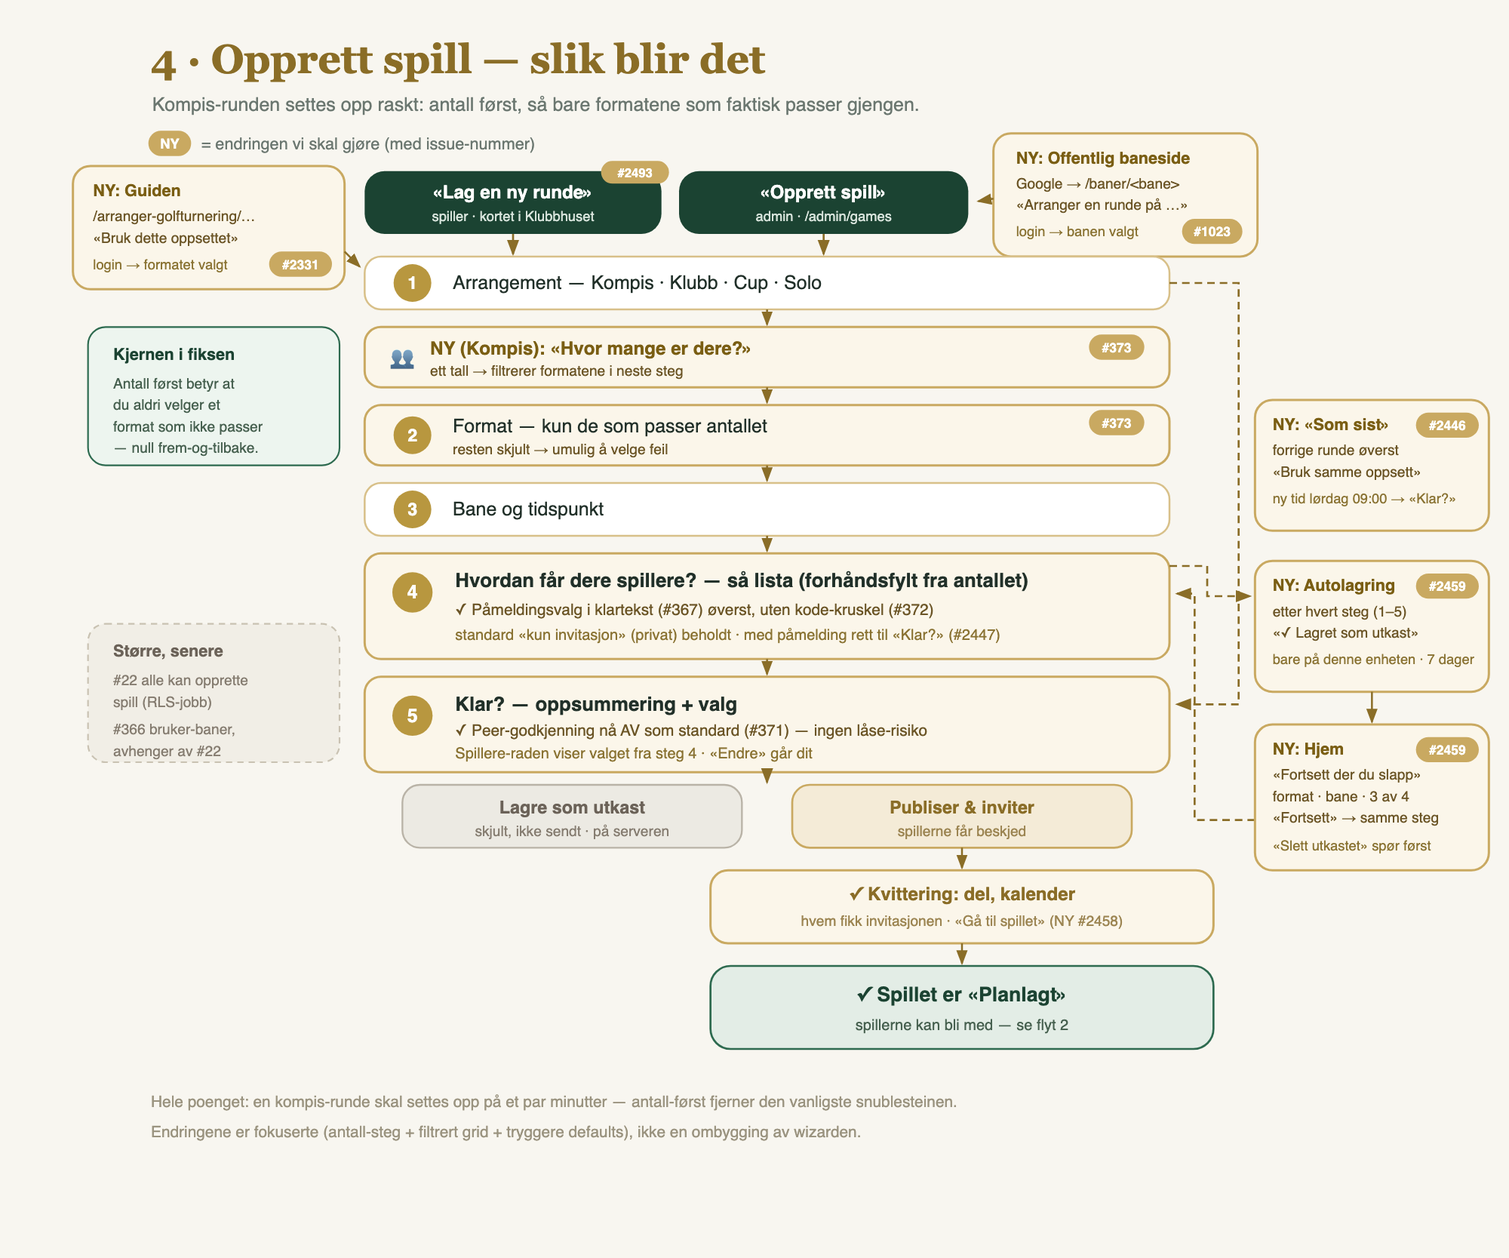
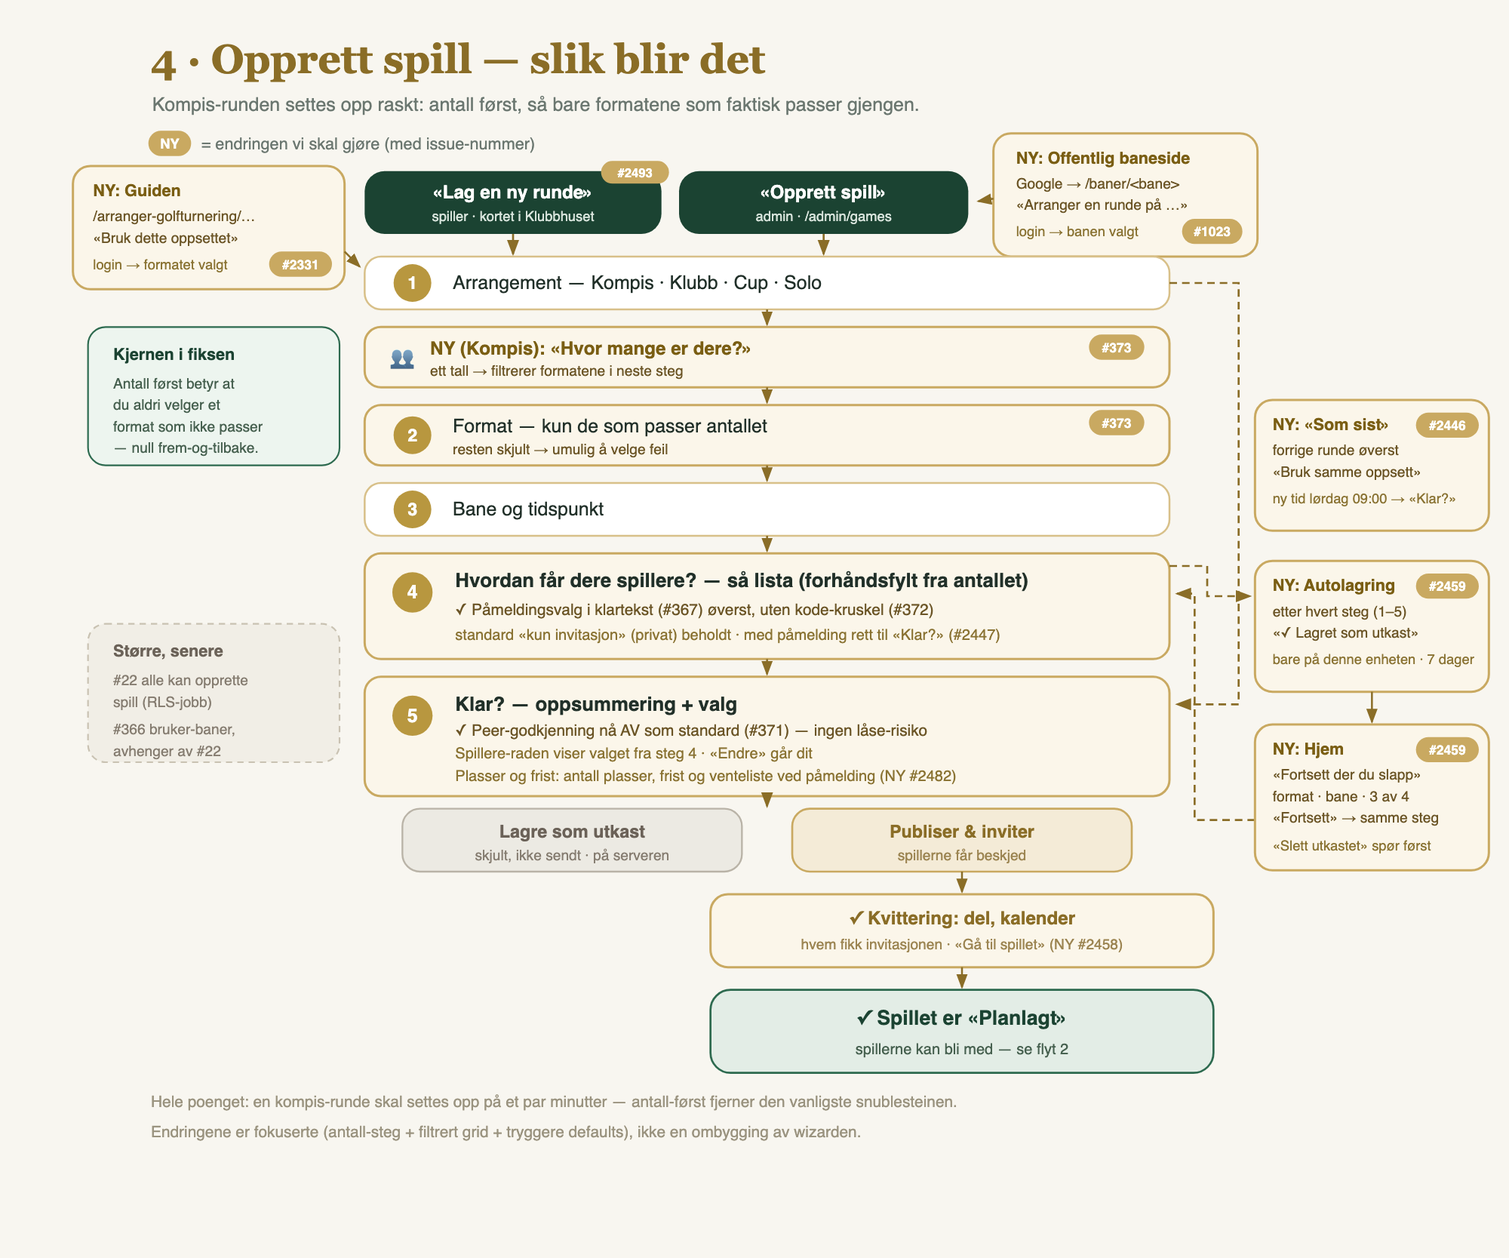
docs(flows): cap, deadline and waiting list in flows 2 and 4
Flow 4 step 5 «Klar?» gets «Plasser og frist» (NY #2482); flow 2's full-round
box gets the waiting list and the deadline; the PNGs are regenerated.
user-flows.md P2 describes the cap, the deadline and the list from the
player's side, step 5 names the card, and the organiser's «Påmeldinger»
names the waiting-list row.

Refs #2482

Changed region(s): [[0.248, 0.5927, 0.806, 0.8422], [0.775, 0.811, 0.806, 0.8422]]

diff --git a/docs/user-flows.md b/docs/user-flows.md
@@ -234,6 +234,8 @@ flowchart TD
 
 **Full runde (#2837):** har formatet et tak (fast antall spillere, eller lagformatets rutenett) og alle plassene er tatt, viser en åpen runde forespørselsskjemaet med banneret «Runden er full» i stedet for «Meld meg på». Tellingen er den samme som plassen tas med (`getRegistrationSeats`, terminlistas «Fullt»), og regelen står i `signupOffer` (`solo_open_full`), så nettsiden og appen sier det samme. Matchplay har fortsatt sidevelgeren. Forespørselen går til arrangøren som en vanlig forespørsel. Stengt påmelding slår full runde: da sendes ingen ny forespørsel, men de som alt står, kan godkjennes. En forespørsel som er trukket, kan sendes på nytt og havner da bakerst i køen.
 
+**Plasser, frist og venteliste (#2482):** taket du møter, er det laveste av formatets tak og arrangørens «Antall plasser». Matchplay fylles per side og har ikke arrangørens tak; der gjelder bare fristen. Har arrangøren satt en påmeldingsfrist, stenger påmeldingen når den går ut, og siden sier når: «Påmeldingen stengte fredag 2. okt kl. 18:00.» Fristen sjekkes når noen prøver å melde seg på, det går ingen planlagt jobb. Er en åpen runde full og arrangøren har ventelista på, står «16 av 16 plasser» og «Fullt · 2 på venteliste» på siden, og knappen heter «Sett meg på ventelista». Trekker noen seg før start, fjerner arrangøren en spiller, hever taket eller slår på lista, får den første på lista plassen av seg selv og varselet «Du fikk plass fra ventelista». Etter fristen rykker lista fortsatt opp fram til start. Etter «Steng påmeldingen» gjør den ikke det. Appen får tallene (`seats.waitlist` og `closure`), men tekstene kommer i neste appbygg.
+
 **Lagskjemaet på nettet (#2840 del 5, tegningen v3.1):** på `/signup/[shortId]` er lagnavnet overskriften, med et forslag fra fornavnet ditt («Martins lag», `suggestTeamName`). Et klikk gjør det til et felt med teller («2/40») og feilen under. Under står rundens tid, bane og plasser, så oppstillingen: du med «K» og en stiplet skive per ledig plass. Søket har «Legg til venn» ved siden av seg hele tiden, også når laget er fullt og når søket ikke treffer. Arket har «Kopier lenken din» (venne-lenka di) og «Gå til Venner», ingen QR-kode. Lista er bare vennene dine (`loadTeamFriendPicker`): skive, navn og «HCP x,x · n runder sammen». En venn som alt er i runden, står grå med «Alt påmeldt i runden» (`readUnavailableFriendIds`), og når laget er fullt, blir resten grå. Et klikk i lista eller på skiva i oppstillingen tar vennen inn eller ut. Knappen nederst teller ned («Velg 2 til») og blir «Meld på <lagnavn>». Uten venner står beskjeden og en hel «+ Legg til en venn». Serveren sjekker vennskapet på nytt (`teammate_not_friend`). Vennene får varsel i appen, og kvitteringen viser hvem som kom med.
 
 **Lagsiden på nettet (`/signup/[shortId]/team`):** «Lag · <runde>» over lagnavnet, en linje med «Påmeldt · 2 av 3 har svart ja» (eller ledige plasser), oppstillingen med kapteinens «K», og én rad per medspiller med skive, navn og status. Kapteinens «•••» åpner en liten meny ved raden: «Send på nytt» og «Fjern fra laget» før svar, «Gi kapteinsrollen» og «Fjern fra laget» etter ja (ikke for en gjest). «Fjern fra laget» og «Gi kapteinsrollen» går via en bekreftelse. En som takket nei, har «Bytt med en venn», og en ledig plass har «Velg en venn». Begge åpner samme venneliste som skjemaet, for én plass (`addTeamMember`, med `replaceRequestId` ved bytte). Medspillerne ser laget uten «•••», og den som ikke har svart, får «Bli med på laget» og «Nei takk». Ingen kan invitere på e-post lenger, men en invitasjon som alt er sendt, virker: den som logger inn med adressen, får «Bli med på lag» her.
@@ -348,7 +350,7 @@ flowchart LR
 | 2 Format | `FormatGrid` (eller `CupSetup`) | **DB-drevet** fra `formats` + `format_intent_mapping`, anbefalt format først: med antall (Kompis) er det første formatet som passer, et stort kort, og tre til står under (#2260). Under lista følger «Velg lagstørrelse» antallet: størrelser som ikke går opp, står grå og sier hvorfor, og et format med én lagstørrelse viser den som en linje (#2453). Når et format er valgt, krymper lista til én linje med «Bytt», og oppsettet står rett under (#2454). Cup → `createTournamentDraft` → `tournaments`-rad → `/admin/cup/[id]`. Ved «Klubb-turnering» velges klubben (`ClubPicker`) over formatlista, og «Neste» krever en gyldig klubb (#2439). Shamble og champagne scramble har handicap-andelen (%) rett under «Tellemåte», bare med Netto, og får ikke det generelle andelsfeltet på steg 5 (#2570). Dyplenka `?format=` fra formatvelgeren på `/spillformater` åpner Kompis på dette steget med formatet valgt og arrangøren som spiller (#2328). Dyplenka `?oppsett=<målgruppe>` fra guidene gjør det samme med guidens oppsett (format og lagstørrelse, uten antall) og vinner over `?format=`; `?fra=`, `?klubb=` og `?intent=` slår den av (`resolveWizardDeepLink`, #2331). `?bane=` gjør det ikke, for den kommer tilbake sammen med forslags-lenka fra «Opprett ny bane» (#2485). |
 | 3 Bane og tidspunkt | `BasicsSection` | «Hvor og når?» (#2448). **Sist brukt:** de to banene du brukte sist, som kort (per bruker, spill du har spilt eller arrangert; ikke utkast, trukne eller avledede spill, `getCourseAndTimeData`). Under navnet står «N runder i høst» (årstiden etter Oslo-kalenderen: vår mar–mai, sommer jun–aug, høst sep–nov, vinter des–feb), eller «Sist 12. aug» når banen ikke er spilt i årstiden. En bane valgt på annen måte står først som «Valgt». Uten historikk heter kickeren «Bane». **Søket** finner alle baner (fra `getNewGameFormData`). **Tee** er knapper med fargeprikk (`tee_boxes.color`, ellers navnet, ellers nøytral) og hvem teen er vurdert for; én tee er valgt fra start. **Tee-off** har hurtigvalg: «Nå» (bare Kompis og Solo, #2463), «I dag», «I morgen» og «Annen dag», så 08:00, 09:00, 10:00 og «Annen tid» (Oslo-tz, «nå» regnet på serveren). Standarden lørdag kl. 09:00 står under «Annen dag» med datoen, med mindre lørdag er i dag eller i morgen. Tider som har passert i dag kan ikke velges. «Nå» skjuler klokkeslettene: tiden settes når du publiserer (`resolveTeeOffForSave`), så femminuttersgrensen gjelder ikke, og runden starter med en gang. Et utkast med «Nå» lagres uten tidspunkt og åpnes med «Nå» valgt. Auto-navn. «Opprett ny bane» går til `/opprett-bane?next=…` med veien tilbake til steg 3. Der viser «Finnes banen alt?» opptil fem baner som ligner navnet du skriver (`similar_courses`, #2485). «Bruk denne», eller en bane du lagrer der, kommer tilbake valgt: når utkastet er hentet, velger veiviseren banen fra `?bane=` over utkastets og fjerner parameteren fra adressen (`useCourseFromUrl`). `banevalg=1` står igjen, så «Som sist» holder seg borte fra steg 1 også etter en reload (#2446). Format og spillere står. I appen heter døra «Finner du ikke banen? Legg den inn», og den åpner samme skjema med samme regler som nettet; en lagret bane, eller «Bruk denne», kommer tilbake valgt på steg 3 (#2757). |
 | 4 Spillere | `PlayerSourceChoice` + `PlayerPickerGrid` + `PlayerTray`, så `TeamsAssignmentSection` | Øverst, under tittelen «Hvordan får dere spillere?», står påmeldingsvalget (#2447, #367): «Jeg velger dem nå» (standard, privat), «De ber om plass, jeg godkjenner» (med «Slipp venner direkte inn», #369) og «Åpen påmelding». Velges påmelding, er lista valgfri og «Neste: Klar?» går rett til steg 5, også i best ball med deg alene. Klubb-turneringen har ikke valget (medlemskap er invitasjonen, #643) og beholder tittelen «Hvem skal spille?». Det samme gjelder en runde med «Nå» på steg 3: den starter med en gang, så du velger spillerne selv (#2463). Under valget: vennene (eller klubbmedlemmene) som kort, du selv først og så sist spilt først (`orderPickerPlayers`, #2321). Brettet nederst teller mot målet («3 av 4 · én til»). Lagformater og singles matchplay fordeler lag, sider og flights på en egen skjerm («Neste: lagene»); solo-formatene har tee per spiller på velgeren. Under påmeldingsvalget står «Hva melder man på?» (individuelt eller lag), bare for lagformater (#2457). Gjest legges til fra «+ Gjest»; «✉ E-post» samler adresser som inviteres når spillet publiseres (`sendPublishInvites`). Steget kan stå tomt hvis påmelding er valgt øverst på steget, og i en klubb-turnering med individuell påmelding (#2433). I appen (#2840 del 4) har spillersteget i en kompisrunde det samme valget øverst, med de samme ordene (`RegistrationChoice`): de tre kortene, «Slipp venner direkte inn» inne i kortet for godkjenning, og «Hva melder man på?» for lagformatene. Velges påmelding, heter lista «Vil du legge inn noen nå? Lista kan stå tom.», og runden kan publiseres uten spillere. Med Lag og påmelding er det ingen liste, og ingen står på den fra start (`organiserStartsOnRoster`). Lagene melder seg på selv, og merknaden sier at du melder på laget ditt fra runden. En som sto på lista uten lag, ville ikke kunnet melde på eget lag. Går valget tilbake, er lista og du med igjen. Et format uten lag setter typen tilbake til Individuelt. Klubbturneringen i appen har ikke valget. |
-| 5 Klar? | `ReadyStep` | Et lite invitasjonskort med spillnavnet som felt midt i kortet, og en sjekkliste (Bane, Format, Tee-off, Spillere) med status og «Endre» som hopper til steget valget bor på (#2282). Spillere-raden sier hvordan spillerne kommer («Privat», «Du godkjenner påmeldinger», «Åpen påmelding»; ikke i en klubb-turnering), og «Endre» går til steg 4 der valget bor (#2447). Under sjekklista står INNSTILLINGER (#2457): Handicap (bare for formater med handicapfelt), Startkontingent, Under runden (synlighet og godkjenning fra flighten) og Sideturnering og premier, hver som en kort rad med verdien som er satt og «Endre». «Endre» åpner et bunn-ark (`BottomSheet`) med bare radens felt; ✕, bakgrunnen, Esc og «Ferdig» lukker det. Verdiene bæres av `FormDataInputs`, ikke av arkene, så de er med når arket er lukket. Premiebordet er en rad som åpner bordet, lukket som standard og åpent når spillet alt har premier. Prosenten står bare i Handicap-raden; Format-raden blir fortsatt rød når den er ugyldig, og «Endre» der åpner Handicap-arket med fokus i feltet. Brettet nederst: «Publiser og del invitasjonen» (`createAndPublishGame`, status `scheduled` + invitasjoner) eller «Lagre som utkast» (`createGameDraft`, status `draft`). Publisering varsler alle på lista én gang (`notifyRosterInvites`); en tom klubb-turnering varsler ingen. «Lagre som utkast» varsler ingen (#2445). En venn uten fullført profil stopper ikke publiseringen. Runden starter når profilen er på plass, og spillerraden på steg 5 sier «N venter på profil» (#2441). Er alle valgte spillere gjester, blir spillerraden rød og publiseringen stoppes alltid, uansett påmeldingsmåte; serveren avviser også (`guestOnlyRoster`, #2570). Redigering av en planlagt runde stoppes ikke. I appen står «Påmelding» over spillerne i oppsummeringen for en kompisrunde, med de samme ordene og « · lag» for lagpåmelding («Åpen påmelding · lag»). Uten spillere og med lagpåmelding står «Spillere (0)» og «Lagene melder seg på selv». Etter publiseringen får arrangøren som ikke står på lista, kortet «Meld på laget ditt» på runden (`OwnTeamCard`, #2840 del 4). Knappen åpner lagskjemaet på «Påmelding» med deg som kaptein. Når laget er sendt, står «Laget ditt» i stedet. |
+| 5 Klar? | `ReadyStep` | Et lite invitasjonskort med spillnavnet som felt midt i kortet, og en sjekkliste (Bane, Format, Tee-off, Spillere) med status og «Endre» som hopper til steget valget bor på (#2282). Spillere-raden sier hvordan spillerne kommer («Privat», «Du godkjenner påmeldinger», «Åpen påmelding»; ikke i en klubb-turnering), og «Endre» går til steg 4 der valget bor (#2447). Under sjekklista står INNSTILLINGER (#2457): Handicap (bare for formater med handicapfelt), Startkontingent, Under runden (synlighet og godkjenning fra flighten) og Sideturnering og premier, hver som en kort rad med verdien som er satt og «Endre». «Endre» åpner et bunn-ark (`BottomSheet`) med bare radens felt; ✕, bakgrunnen, Esc og «Ferdig» lukker det. Verdiene bæres av `FormDataInputs`, ikke av arkene, så de er med når arket er lukket. Premiebordet er en rad som åpner bordet, lukket som standard og åpent når spillet alt har premier. Prosenten står bare i Handicap-raden; Format-raden blir fortsatt rød når den er ugyldig, og «Endre» der åpner Handicap-arket med fokus i feltet. Brettet nederst: «Publiser og del invitasjonen» (`createAndPublishGame`, status `scheduled` + invitasjoner) eller «Lagre som utkast» (`createGameDraft`, status `draft`). Publisering varsler alle på lista én gang (`notifyRosterInvites`); en tom klubb-turnering varsler ingen. «Lagre som utkast» varsler ingen (#2445). En venn uten fullført profil stopper ikke publiseringen. Runden starter når profilen er på plass, og spillerraden på steg 5 sier «N venter på profil» (#2441). Er alle valgte spillere gjester, blir spillerraden rød og publiseringen stoppes alltid, uansett påmeldingsmåte; serveren avviser også (`guestOnlyRoster`, #2570). Redigering av en planlagt runde stoppes ikke. I appen står «Påmelding» over spillerne i oppsummeringen for en kompisrunde, med de samme ordene og « · lag» for lagpåmelding («Åpen påmelding · lag»). Uten spillere og med lagpåmelding står «Spillere (0)» og «Lagene melder seg på selv». Etter publiseringen får arrangøren som ikke står på lista, kortet «Meld på laget ditt» på runden (`OwnTeamCard`, #2840 del 4). Knappen åpner lagskjemaet på «Påmelding» med deg som kaptein. Når laget er sendt, står «Laget ditt» i stedet. Ved åpen påmelding og godkjenning står kortet «Plasser og frist» under sjekklista (#2482): antall plasser med − og +, påmeldingsfrist og «Venteliste når det er fullt». |
 | Kvittering | `app/[locale]/games/[id]/klar/page.tsx` (#2458) | «Publiser og del invitasjonen» lander her, fra ny runde og fra utkast, for admin og arrangør (`requireAdminOrCreator`). Redirecten erstatter veiviseren i historikken, så «Tilbake» fra spillet gir kvitteringen. Øverst står «✓ {navn} er klar» og hvem som har fått invitasjonen (`lib/games/publishReceipt.ts`: lista uten arrangøren, den som publiserte, gjester og trukne; opptil tre fornavn, så «og N til», e-postinvitasjoner sist). Under står det lille kortet fra «Klar?» uten felt, og så «Del i gruppechatten» (delingsarket, ellers kopiering), «Kopier lenke», «Legg i kalenderen» (`.ics`, også for arrangøren som ikke spiller) og «Gå til spillet» (admin `/admin/games/[id]`, andre `/games/[id]`). Delingsknappene står bare når `isPubliclyViewable` sier ja, så «Bare de jeg inviterer» viser ingen lenke. Siden skriver ingenting og kan lastes på nytt; et spill som ikke er planlagt, eller en cupkamp, sender videre til spillet. Cupkamper, utkast og en publisering der e-postinvitasjoner feilet, beholder sine redirecter. |
 
 **Autolagring (#2459).** Veiviseren lagrer oppsettet av seg selv etter hvert steg, i `localStorage` på denne enheten, per bruker og per flate (`/opprett-spill`, `/admin/games/new`), i 7 døgn (`wizardStatePersistence`). Det er ingen `games`-rad, ingen invitasjon og ingen synlighet for spillerne: «Lagre som utkast» på «Klar?» er fortsatt veien til et serverutkast. Merket «✓ Lagret som utkast» under stegtittelen står bare når siste skriving gikk. Fra steg 2 og utover står oppsettet øverst på Hjem under «Fortsett der du slapp» (`ResumeDraftCard`): format, bane, valgte spillere mot antallet fra steg 2 og «Steg X av 5». «Fortsett» åpner den lagrede lenka (steg, `skjerm=lag` og kontekst som `?klubb=`), «Slett utkastet» går til `/opprett-spill/slett-utkast`. Publisering, «Lagre som utkast», sletting, utlogging, eierbytte og kontosletting fjerner det.
@@ -362,7 +364,7 @@ Publiserer en arrangør som ikke er admin uten å stå på lista selv, lander he
 - **Start** (`startGame` / `startScheduledGameAction`): fryser course-handicap, `→ active`. Starten venter til alle på lista har fullført profilen. «Styr spillere» og spillsiden viser hvem som venter (#2441). Arrangøren av spillet kan også starte, med «Start runden nå» på spillsiden: porten er `requireAdminOrCreator`, starten kjører med service-rolle som appens start-rute, og arrangøren lander på `/games/[id]` (#2202). En arrangør som ikke står på lista, får en egen arrangørvisning på `/games/[id]` (`OrganiserGameView`), og spillersidene under sender hen dit. Mens runden pågår, ser arrangøren tavla og hull for hull derfra (eierens valg C, #2202). Kan runden ikke starte, viser Sekretariatets startkort og oppretterens spill-hjem (også arrangørvisningen) hvorfor, før tee-off også, med samme setning som et avvist startforsøk (#2204).
 - **Inviter** (`InviteToGameSection`): legg til eksisterende spiller eller inviter på e-post (Resend, spill-scoped).
 - **Startlista** (`/admin/games/[id]/startlista`, #2289): flightene som kort side om side, med antall spillere og snitt-HCP, og «Uten flight» nederst. Arrangøren trykker på en spiller og så på flighten hen skal til; «Foreslå inndeling» står øverst. Siden finnes for solo-formater med flere enn fire aktive, planlagt eller i gang, og erstatter nedtrekkslistene. Admin når den fra raden «Startlista» på spillsiden og i pultens «Oppsett», arrangøren fra «Styr spillere» og fra varselet på spillsiden når noen mangler flight.
-- **Påmeldinger** (`/admin/games/[id]/signups`): godkjenn/avvis manuelle forespørsler. Øverst står hvor mange som er med, hvor mange som venter og hvor mange plasser som er ledige («8 av 12», med teller spillerlista, #2291). Hver søknad er et kort med HCP og tidspunkt, et lag er ett kort, og et lag som trenger flere plasser enn det er ledig, er merket. «Steng påmeldingen» / «Gjenåpne påmeldingen» står bare her, ikke på spillsiden, og en grå lenkelinje nederst går til de godkjente, avviste og trukne (#2288). Arrangøren av spillet slipper også inn, fra varselet eller fra «Påmeldinger» på `/games/[id]/spillere` (#2440; også på runder med bare inviterte og der påmeldingen kan stenges), og fra e-posten «Ny påmelding» (#2202).
+- **Påmeldinger** (`/admin/games/[id]/signups`): godkjenn/avvis manuelle forespørsler. Øverst står hvor mange som er med, hvor mange som venter og hvor mange plasser som er ledige («8 av 12», med teller spillerlista, #2291). Hver søknad er et kort med HCP og tidspunkt, et lag er ett kort, og et lag som trenger flere plasser enn det er ledig, er merket. «Steng påmeldingen» / «Gjenåpne påmeldingen» står bare her, ikke på spillsiden, og en grå lenkelinje nederst går til de godkjente, avviste og trukne (#2288). Arrangøren av spillet slipper også inn, fra varselet eller fra «Påmeldinger» på `/games/[id]/spillere` (#2440; også på runder med bare inviterte og der påmeldingen kan stenges), og fra e-posten «Ny påmelding» (#2202). Med venteliste står «N på ventelista» som egen rad, og taket er arrangørens når det er lavere enn formatets (#2482).
 - **Godkjenn/Åpne scorekort**: `adminApproveScorecard`, `reopenScorecard` (åpner hele laget i formatene med felles ball, #2213). Statussiden (`/admin/games/[id]/status`) og spillersiden (`/games/[id]/spillere`) viser «Levert av {navn}» på et kort en annen leverte (#2200); gjenåpning virker som før.
 - **Avslutt** (`endGame`): krever alle levert (+ godkjent hvis peer). Arrangøren får beskjed når det er klart: «Alle har levert» etter siste levering, godkjenning eller tilbaketrekking, én gang per spill, og ikke når hen gjorde det selv. Har et aktivt spill stått stille et døgn (ingen slag, leveringer, godkjenninger eller tilbaketrekkinger), får hen én påminnelse (`game_stale_reminder`, sveipen `POST /api/cron/stale-game-reminder`, pg_cron fra 0205). Cupkamper og avledede spill er utenfor begge. Spillet avslutter seg aldri selv (#2203). En gjest kan ikke levere selv, men den som fører kortet, leverer det (#2200), så gjester trenger ikke lenger «Avslutt likevel». Side-turnering → `/admin/games/[id]/avslutt` (velg LD/CTP-vinnere; en plass med hull viser hva flightene meldte inn på hullet, #2283). `→ finished` + `gameFinishedNotification` (Resend, off-app). `reopenGame` reverserer; kortene står fortsatt som levert, admin åpner dem som skal rettes (#2213).
 - **Premieutdelingen** (valgfri, etter «Avslutt», #2298): på et avsluttet spill i slagspill, stableford eller et lagformat med pall har arrangøren «Premieutdelingen →» på spillets side og under «Resultat» i Sekretariatet (`/games/[id]/premieutdeling`). Siden har lenken til storskjermen og én knapp som snur neste kort på TV-en: sidepremiene, 3. plass, 2. plass og «Avslør vinneren», med «Ett steg tilbake», «Start på nytt» og «Lukk». Steget står i `games.ceremony_step`, og TV-en spør etter det hvert 2. sekund. Spillerne har resultatet i appen fra «Avslutt» som før; et gjenåpnet spill starter uten seremoni.
